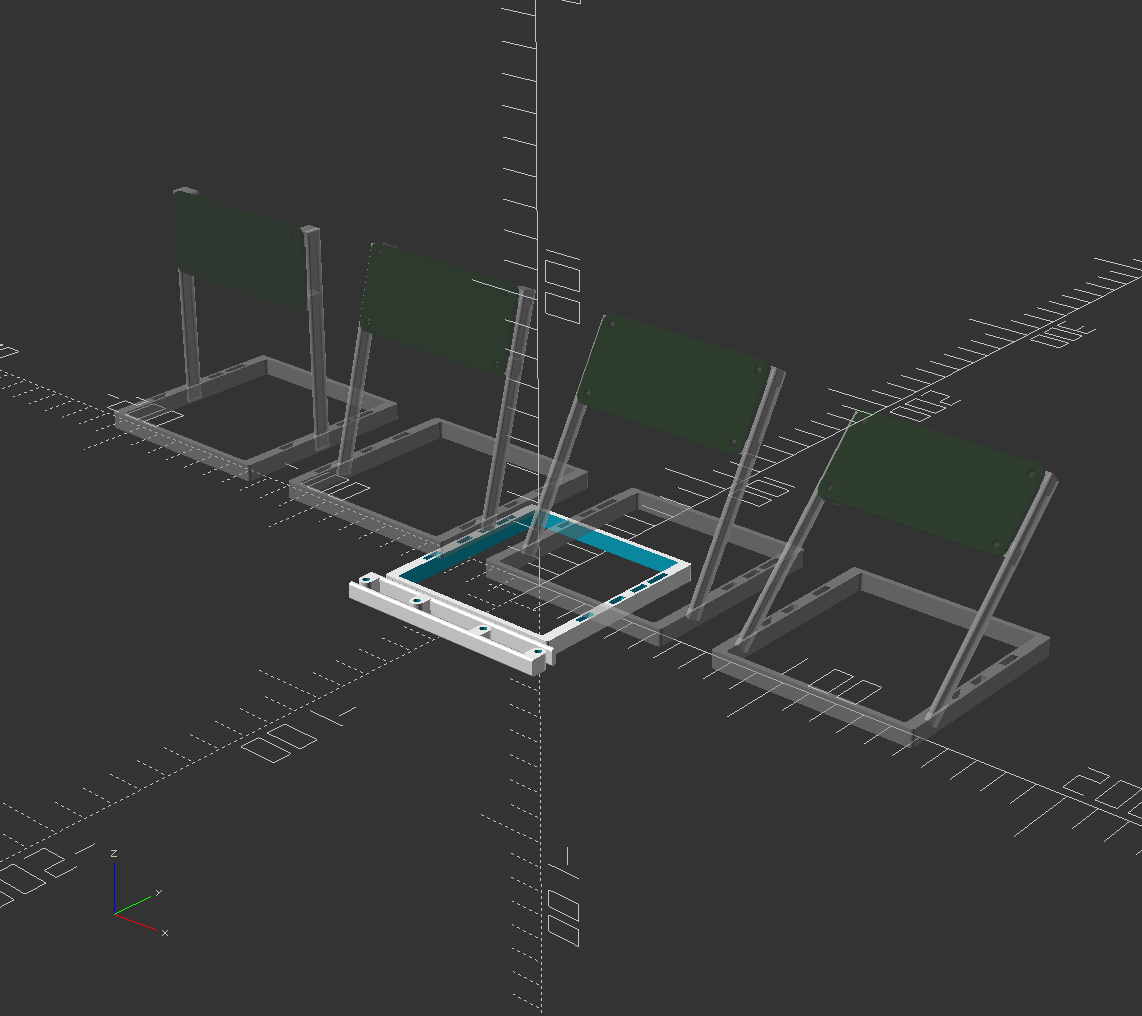
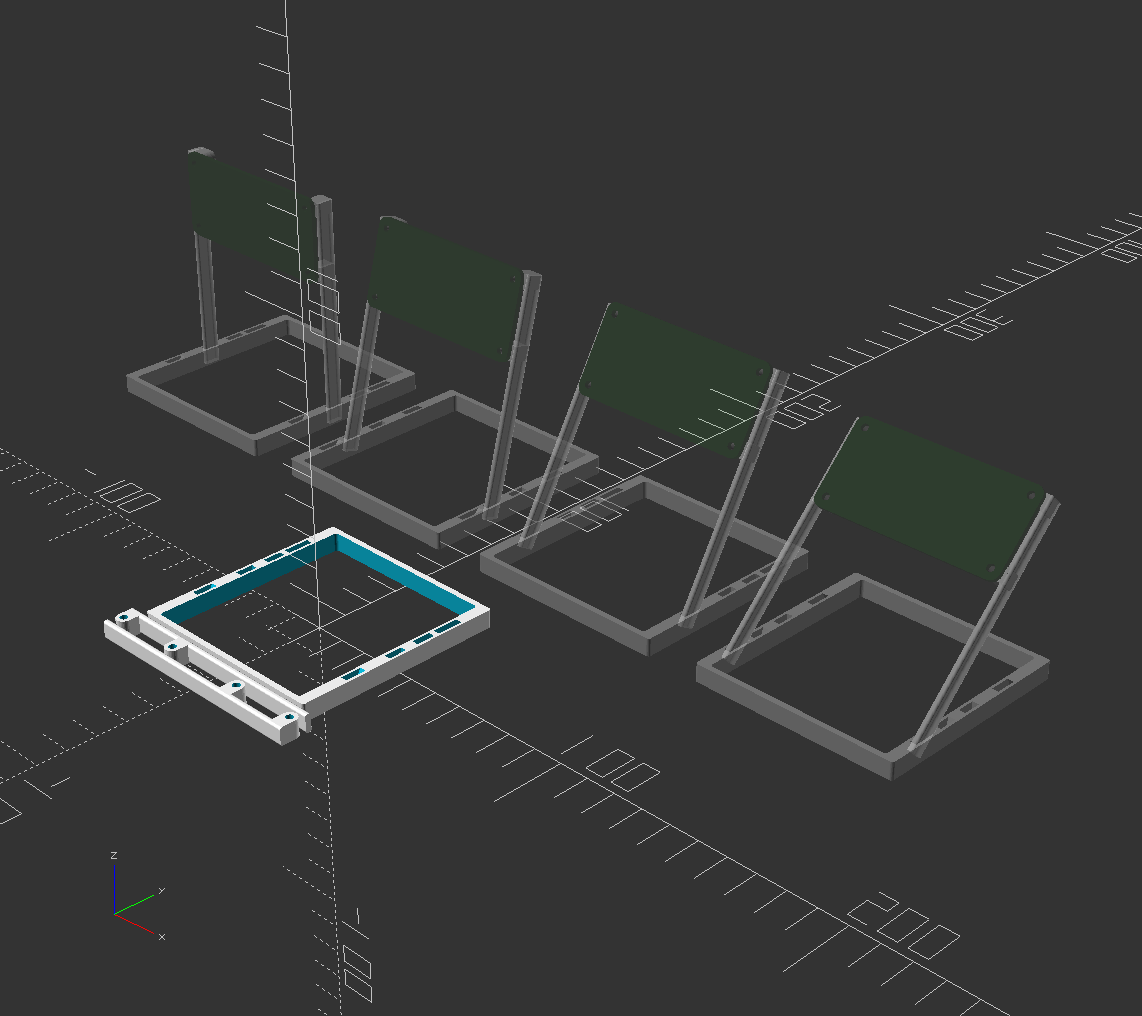
readmes

diff --git a/README.md b/README.md
@@ -3,7 +3,6 @@ Simple, quick-printing, configurable stand mount for Raspberry Pi Zero.
 
 ![](PiZtand.png)
 ![](PiZtand.jpg)
-![](PiZtand_rear.jpg)
 
 Also supports BananaPi M2 Zero and Radxa Zero, which have components on the back side.
 
@@ -19,11 +18,6 @@ The base has 4 sets of post holes at different angles from vertical to 45 degree
 
 Printing all parts at once only requires 80x95mm build surface, and prints in under an hour.
 
-<!--
 ## Configurable options
-The scad file has several variables that you can change.
-
-```style = "thin";``` or ```"chunky"```
-
-...
--->
+The scad file has several variables that you can change to generate different configurations.<br>
+For instance a [stubby](stubby.md) version.

diff --git a/stubby.md b/stubby.md
@@ -1,0 +1,14 @@
+#  "stubby" example
+
+![](stubby_printed.jpg)
+![](stubby_assembled.jpg)
+
+```
+style = "thin";
+pi_elevation = 0;
+foot_lengh = 25;
+...
+angle_a = 0;
+angle_b = 0;
+angle_c = 0;
+```
